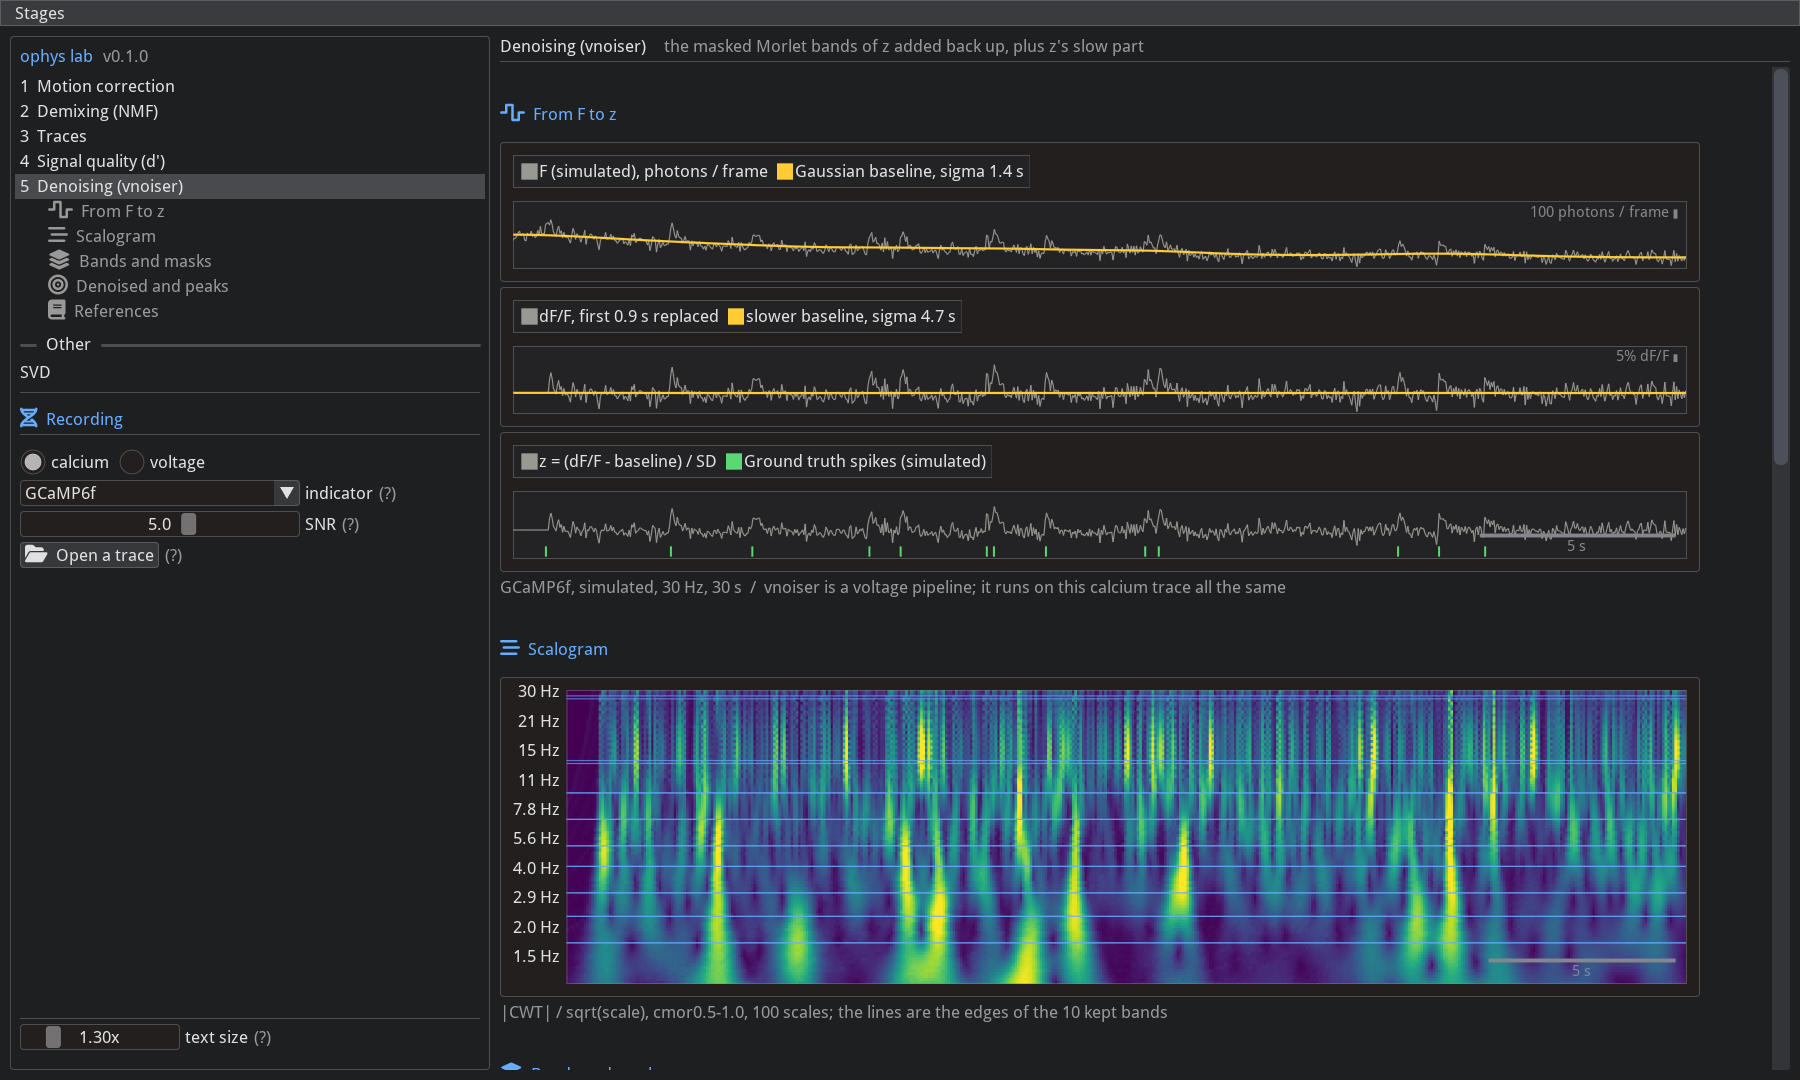
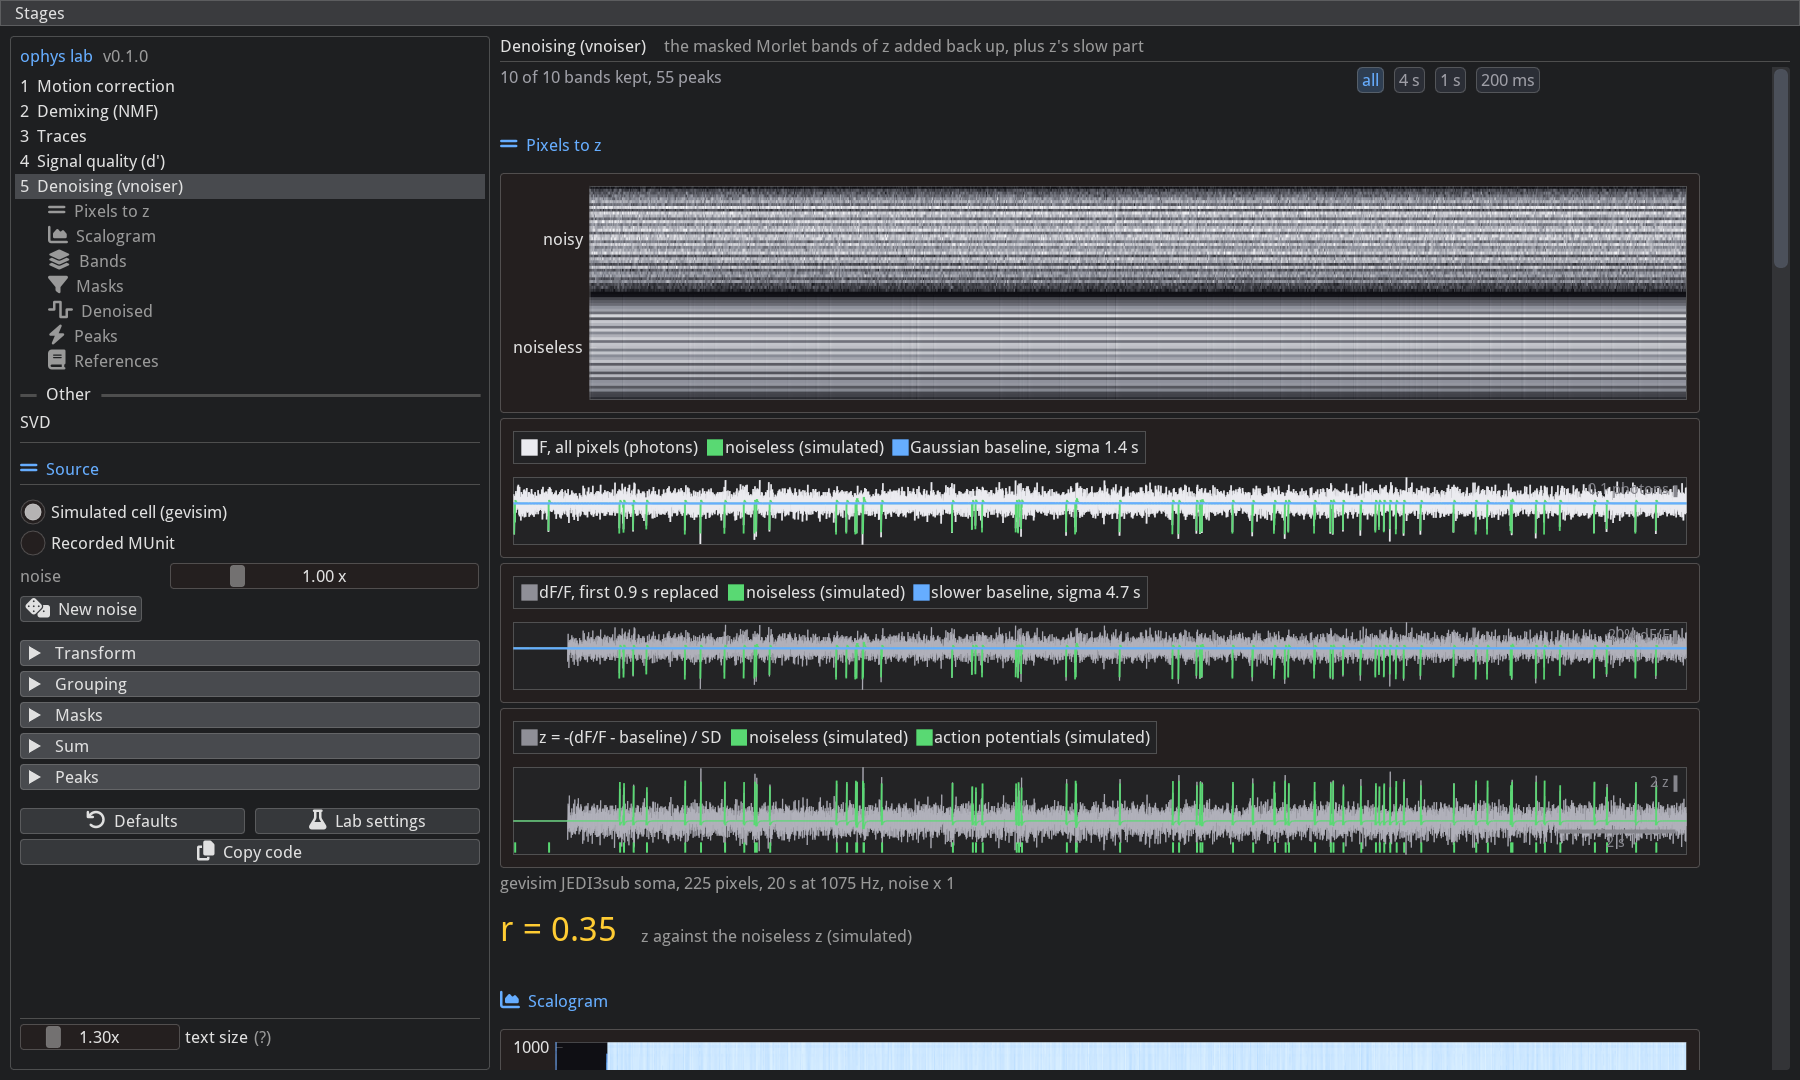
documents the denoising page's sources, stages and numbers

diff --git a/README.md b/README.md
@@ -14,21 +14,21 @@ Run it straight from GitHub, no clone:
 uvx --from git+https://github.com/FlynnOConnell/imgui_ophys imgui-ophys --app dprime
 ```
 
-From a clone, with the Denoising page (it needs the lab's [vnoiser](https://github.com/FlynnOConnell/vnoiser)
-checked out next to this one):
+From a clone, with the Denoising page (it needs the lab's [vnoiser](https://github.com/FlynnOConnell/vnoiser) and
+[gevisim](https://github.com/FlynnOConnell/gevisim) checked out next to this one):
 
 ```bash
 git clone git@github.com:FlynnOConnell/vnoiser.git
+git clone git@github.com:FlynnOConnell/gevisim.git
 git clone git@github.com:FlynnOConnell/imgui_ophys.git
 cd imgui_ophys
 uv venv -p 3.12 && uv pip install -e ".[dev,denoise]"
 imgui-ophys                       # every page, rail on the left
 imgui-ophys --app traces          # open on one page
-imgui-ophys --file scan.npz       # a recorded trace for the Denoising page
 ```
 
-The package itself depends on `imgui-bundle` and `numpy` only. The `denoise` extra adds vnoiser with scipy,
-scikit-learn and PyWavelets; without it the Denoising page says how to install it and the rest runs. The `debug`
+The package itself depends on `imgui-bundle` and `numpy` only. The `denoise` extra adds vnoiser and gevisim with
+scipy, scikit-learn and PyWavelets; without it the Denoising page says how to install it and the rest runs. The `debug`
 extra adds [imgui_debugger](https://github.com/FlynnOConnell/imgui_debugger) and with it a Debug menu.
 
 ## The rail
@@ -40,11 +40,10 @@ The left rail lists the stages, the current stage's sections, and under them the
   JEDI3sub), each with its step response and time constants from the paper (hover the (?)).
 - **SNR**: one spike's peak dF/F over the noise SD of dF/F per frame. It sets the cell's brightness; shot noise, read
   noise and neuropil follow from that.
-- **Open a trace**: a `.npy`, `.npz` (the line scan export's `roi_<i>` arrays and `fs`) or `.csv`. The Denoising page
-  runs on it; the other pages keep the simulated cell, since they need its spike times.
 
-Traces, Signal quality and Denoising show the same cell. Motion correction and Demixing have their own movie and
-one or two controls each (tissue bends, NMF against PCA, the number of parts).
+Traces and Signal quality show the same cell. Motion correction and Demixing have their own movie and one or two
+controls each (tissue bends, NMF against PCA, the number of parts). Denoising has its own source and every
+parameter of the denoiser; see below.
 
 ## Pages
 
@@ -54,7 +53,7 @@ one or two controls each (tissue bends, NMF against PCA, the number of parts).
 | `nmf` | Demixing (NMF) | the movie as a matrix; footprints and traces; HALS updates; NMF vs PCA |
 | `traces` | Traces | indicator response; dF/F; neuropil, bleaching and noise; temporal smoothing |
 | `dprime` | Signal quality (d') | trace; spike +/- 0.8 s; clusters; examples |
-| `denoise` | Denoising (vnoiser) | from F to z; scalogram; bands and masks; denoised and peaks |
+| `denoise` | Denoising (vnoiser) | pixels to z; scalogram; bands; masks; denoised; peaks |
 | `svd` | SVD (under Other) | rank-1 matrices; power iteration and deflation; truncated SVD |
 
 Each page lists its references at the bottom.
@@ -64,10 +63,37 @@ response peak, pooled over spikes, (mean top - mean bottom) / pooled SD. Six fra
 voltage, where a 1 ms action potential fills one frame. The Cells buttons replay the animation's three moves: a
 fifth of the light, five times the light, and five times the light with photobleaching under a whole-recording F0.
 
-Denoising is vnoiser's Morlet wavelet denoiser as the lab's pipeline runs it (`Denoiser.upstream`): z-scored dF/F,
-a complex Morlet transform on 100 log-spaced scales, rows grouped into bands by PCA and Ward clustering, a soft
-mask per band that opens on events, the masked bands added back up with z's slow part, and `detect_peaks` on the
-trace the lab saves. With the simulated cell the page counts how many of the simulated spikes got a peak.
+Denoising is vnoiser's Morlet wavelet denoiser, one section per stage:
+
+    denoised = sum over bands of (band x mask) + the input's slow part
+
+z-scored dF/F, a complex Morlet transform on 100 log-spaced scales, rows grouped into bands by PCA and Ward
+clustering, a soft mask per band that opens on events, the masked bands added back up with z's slow part, and
+`detect_peaks` on the trace the lab saves. Every parameter sits in the rail under its stage; a change reruns that
+stage and the ones after it on a worker thread, and the stages call vnoiser's own classes, so the output matches
+`Denoiser.run` (`tests/test_denoise_pipeline.py`). **Defaults** and **Lab settings** switch between `Denoiser()` and
+`Denoiser.upstream`; **Copy code** copies the Python for the current settings. The time plots share one window: the
+chips at the top (all, 4 s, 1 s, 200 ms) set it, and zooming any plot zooms all.
+
+Two inputs:
+
+- **Simulated cell (gevisim)**: one JEDI3sub soma under a two-photon point focus, 20 s at 1075 Hz, 4 spikes/s,
+  its pixels' expected photons from gevisim. The one knob is **noise**: the shot noise SD relative to the simulated
+  photon budget (1 is the budget, 0 the noiseless cell). With it the page shows the noiseless z beside z and counts
+  how many simulated action potentials got a peak within 10 ms.
+- **Recorded MUnit**: a `.mesc` unit exported by `scripts/export_mesc_linescan.py` (`roi_<i>` pixel arrays and
+  `fs`), or the lab's per-ROI export (`F`, `fs`), found under `~/data` or browsed to. Pick the lines averaged into
+  the domain and the window shown.
+
+Each section ends on one number in yellow with its provenance beside it:
+
+| section | number | high | low |
+|---------|--------|------|-----|
+| Pixels to z | r, z against the noiseless z | | the pixels hold little of the cell; a wandering stripe is motion |
+| Bands | bands kept, and how many sit above the noise floor | the kept bands above the floor hold mostly noise; untick them under Sum | |
+| Masks | events in the chosen band | windows on noise: the threshold is too low | events without a window: too high |
+| Denoised | r, denoised against the noiseless z | | an event in "z - denoised" was cut |
+| Peaks | peaks, and how many simulated action potentials have one within 10 ms | peaks between action potentials: the levels are too low | action potentials without one: too high |
 
 ## Animations
 

diff --git a/ARCHITECTURE.md b/ARCHITECTURE.md
@@ -30,7 +30,7 @@
 - `config.py`: `~/.imgui_ophys/settings.json` and the UI scale.
 
 The only hard dependencies are imgui-bundle and numpy. imgui_debugger is optional, imported in a try in `app.py`. The
-scale handling and plotting helpers follow imgui_vnoiser.
+scale handling and the Denoising page came from imgui_vnoiser, which this repo replaces.
 
 ## Frame
 
@@ -61,9 +61,20 @@ is true, hello_imgui's idling is off so playback and iterative fits run at full 
   rows. The view follows one spike (median amplitude) and keeps its plot ranges fixed over the reference cells (the
   opening brightness, a fifth of it, five times it, five times it bleached), so a light or bleaching change moves
   the dots instead of the axes. A new indicator reseeds; a new SNR morphs.
-- Denoising (`denoise/model.py`): vnoiser's `Denoiser.upstream` on the cell's z-scored dF/F (or a file's), the
-  stages kept for drawing, `final_trace` and `detect_peaks` as `process_domain` runs them, and the peaks matched to
-  the simulated spikes within 10 ms. vnoiser is imported inside the model, so the package runs without it.
+- Denoising (`denoise/`): `signals.py` makes the input (`SignalParams`: the source, the noise knob and seed of the
+  gevisim cell, or a MUnit's path, lines and window) as a `Signal` with every step from pixels to z (`Pixels`).
+  The gevisim cell is built once per process (`gevisim_cell`: expected photons per pixel, spike times) and a noise
+  setting only redraws Poisson counts at `expected / noise^2 x noise^2`, so the mean stays and the SD scales.
+  `pipeline.py` is `Denoiser.run` split into `STAGES = signal, cwt, cluster, reduce, mask, final, peaks`:
+  `Settings` holds every parameter grouped by the stage it first affects (the cluster, reduce, mask and peaks groups
+  are vnoiser's own config dataclasses), `Settings.first_change(other)` names the earliest stage whose values
+  differ, and `compute(settings, start, previous)` copies the stages before `start` from `previous` and runs the
+  rest, calling vnoiser's classes and recomputing beside them what they discard (`band_details`, `mask_details`,
+  `peak_details`). `morlet.py` is pywt's `cmorB-C` in seconds and hertz. `plots.py` holds the page's colors,
+  decimated lines on the shared window, scale bars, colormaps and form rows. The view runs `compute` on one worker
+  thread: `update(dt)` lands a finished run and submits the next from the earliest changed stage, so a dragged
+  slider coalesces into at most one queued run; `animating()` is true while a run is in flight. vnoiser and gevisim
+  are imported in a try, so the package runs without the denoise extra.
 - SVD (under Other, `svd/model.py`): `Peel` finds the pieces one at a time by power iteration and deflation (u = R v,
   v = R' u until v settles, then subtract s u v'), one half-step per click; its pieces equal `np.linalg.svd`'s
   (tested). Signs are fixed so each U column's largest entry is positive.
